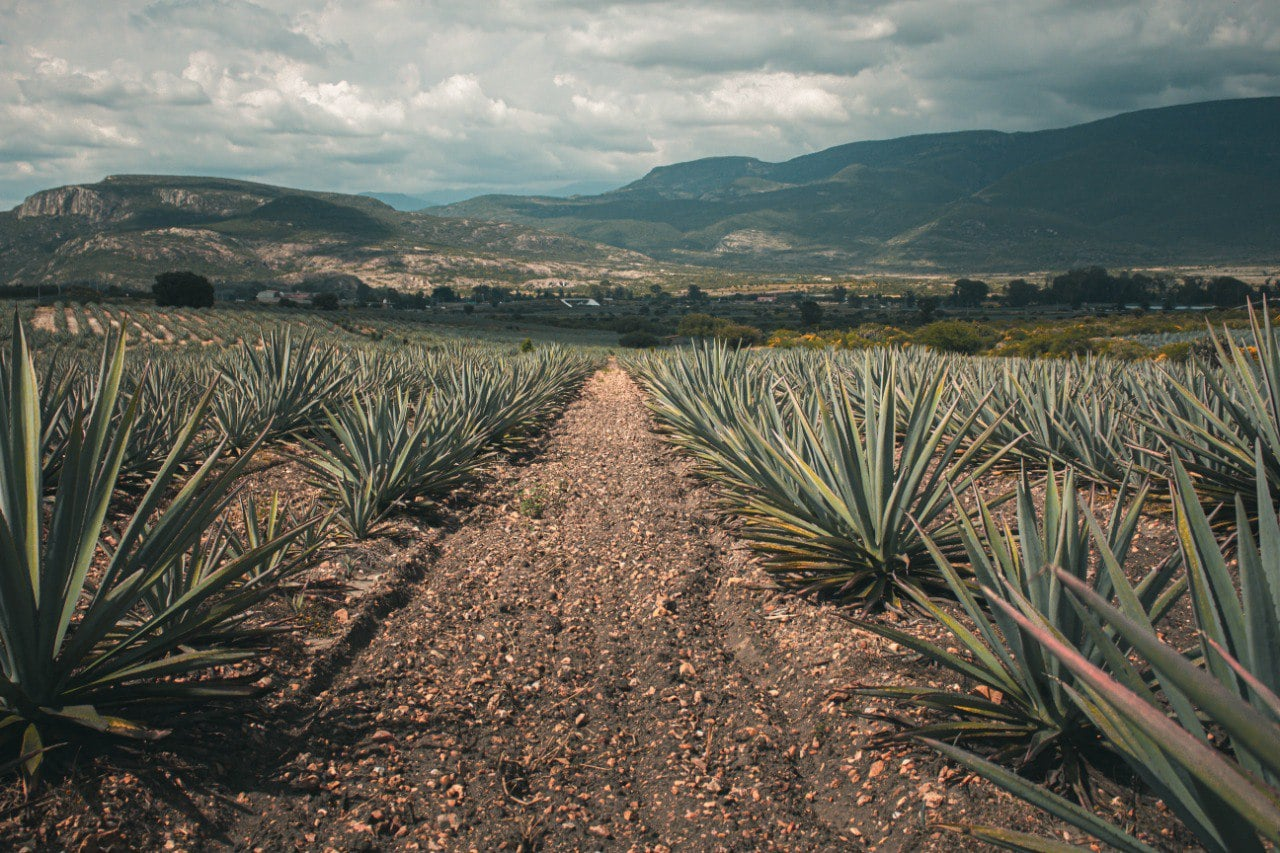
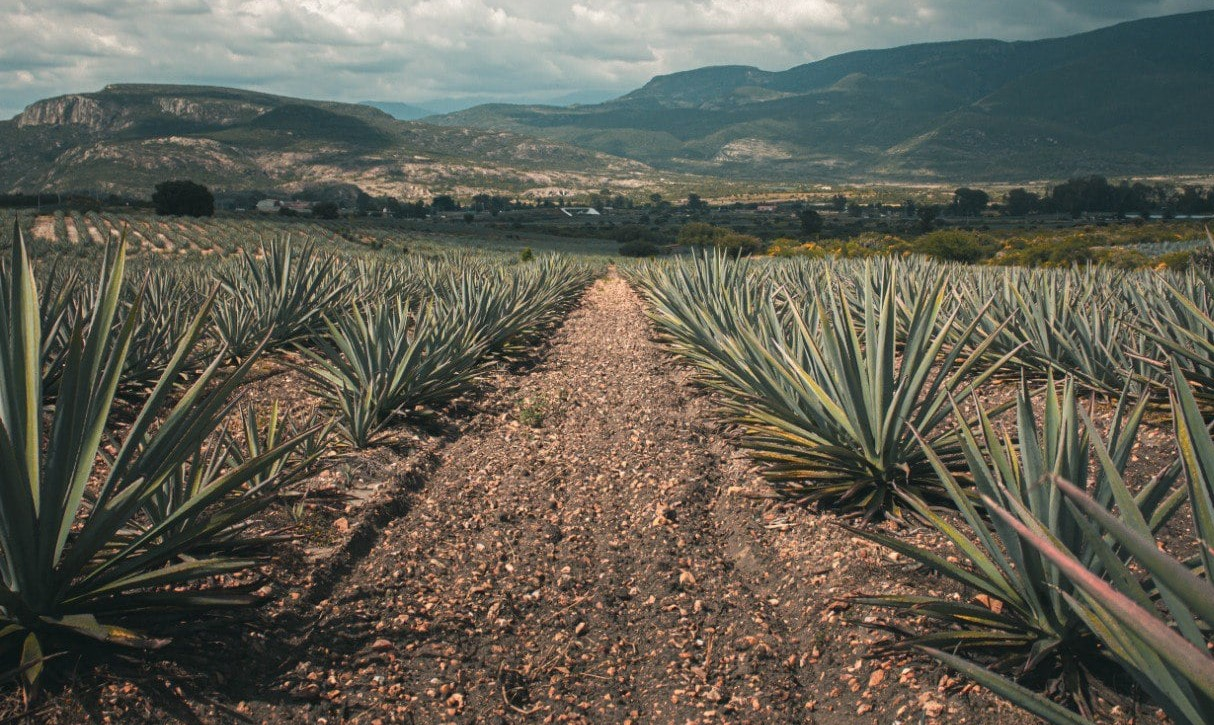
Center background age image

diff --git a/components/layout/AgeConfirm.module.css b/components/layout/AgeConfirm.module.css
@@ -12,7 +12,7 @@
 
   background-image: url("../../public/static/images/photos/Reserva_Ancestral_Agaves.JPG");
   background-repeat: no-repeat; /* Do not repeat the image */
-  background-position: right bottom; /* Center the image */
+  background-position: center; /* Center the image */
   background-size: cover;
 
   transition: all 0.3 ease-in;
